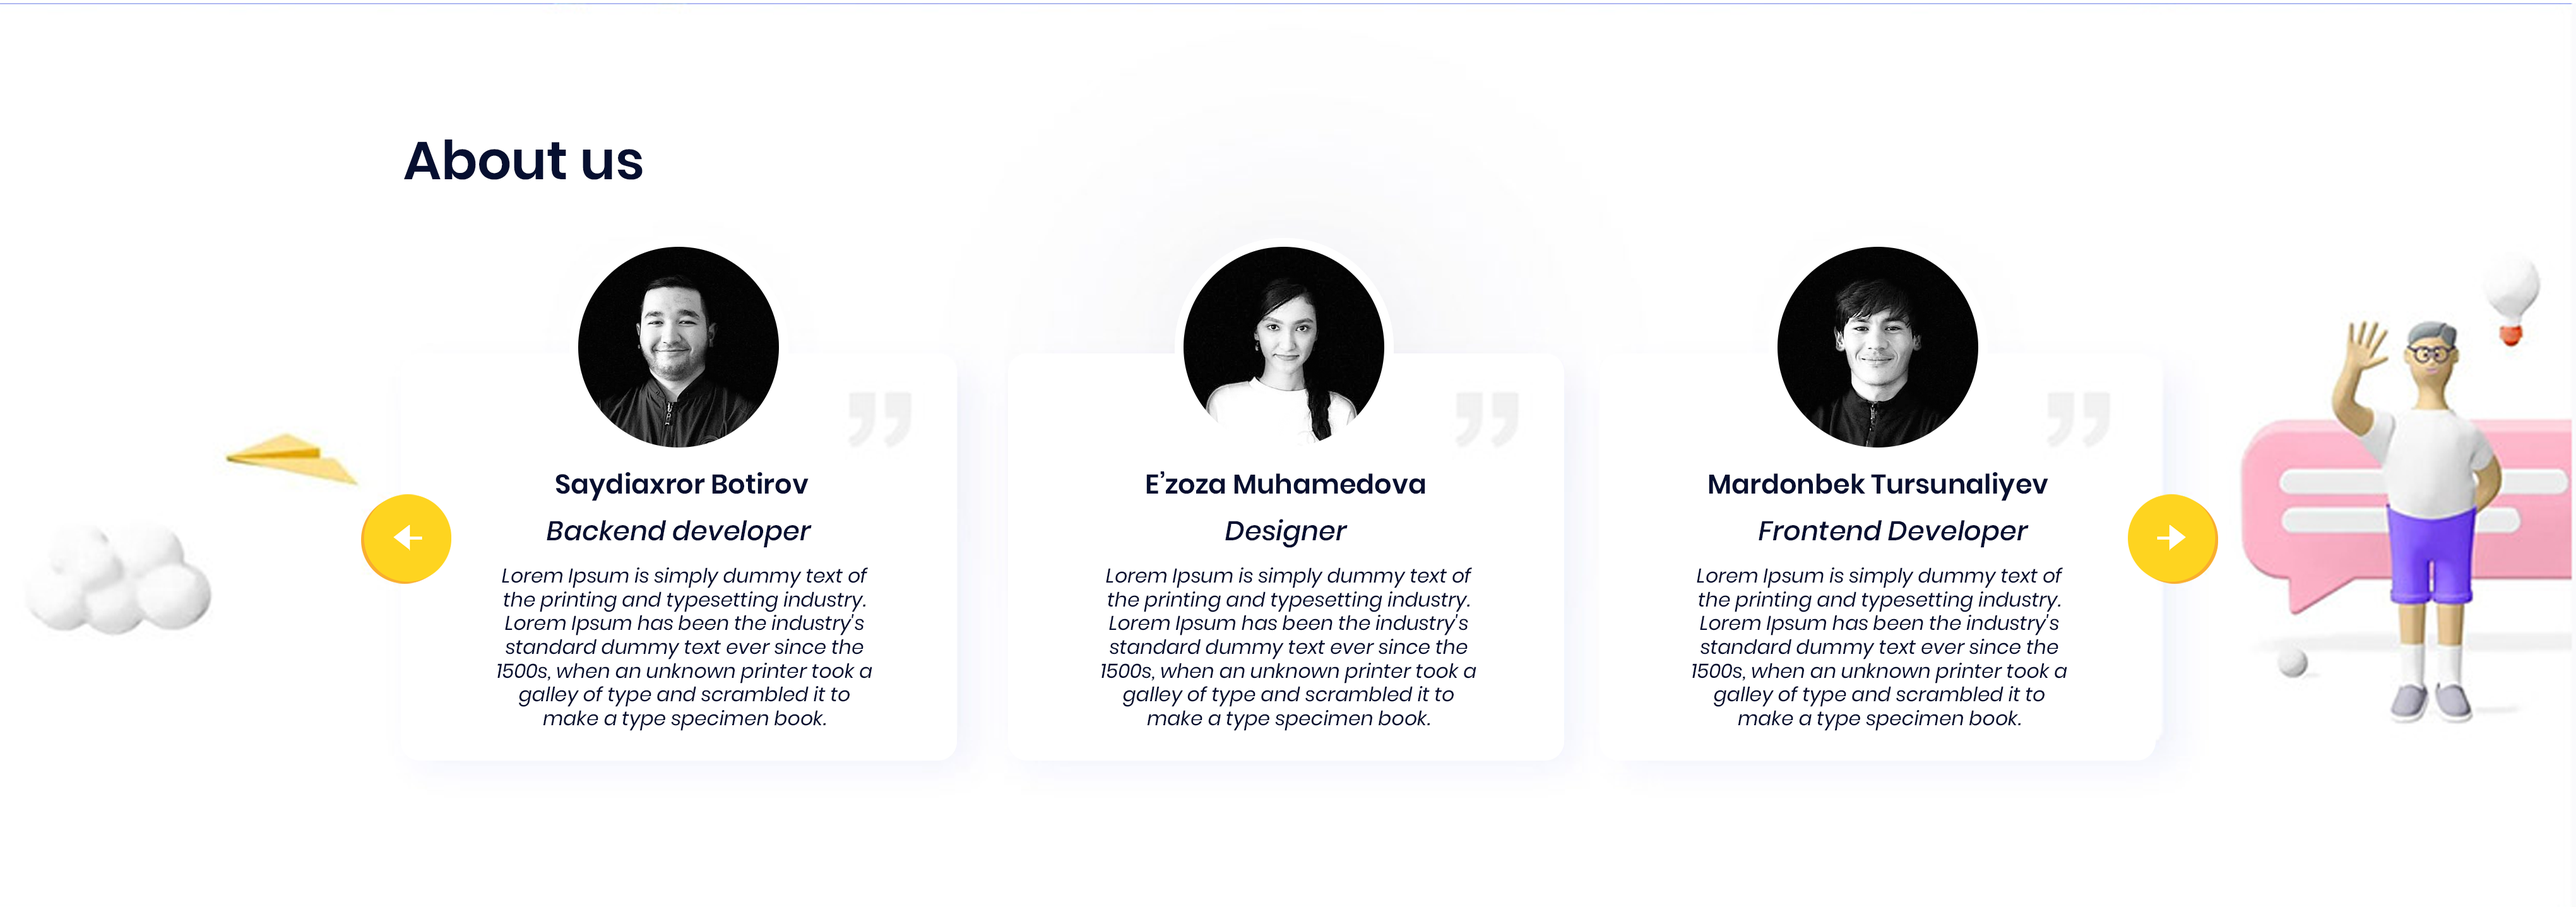
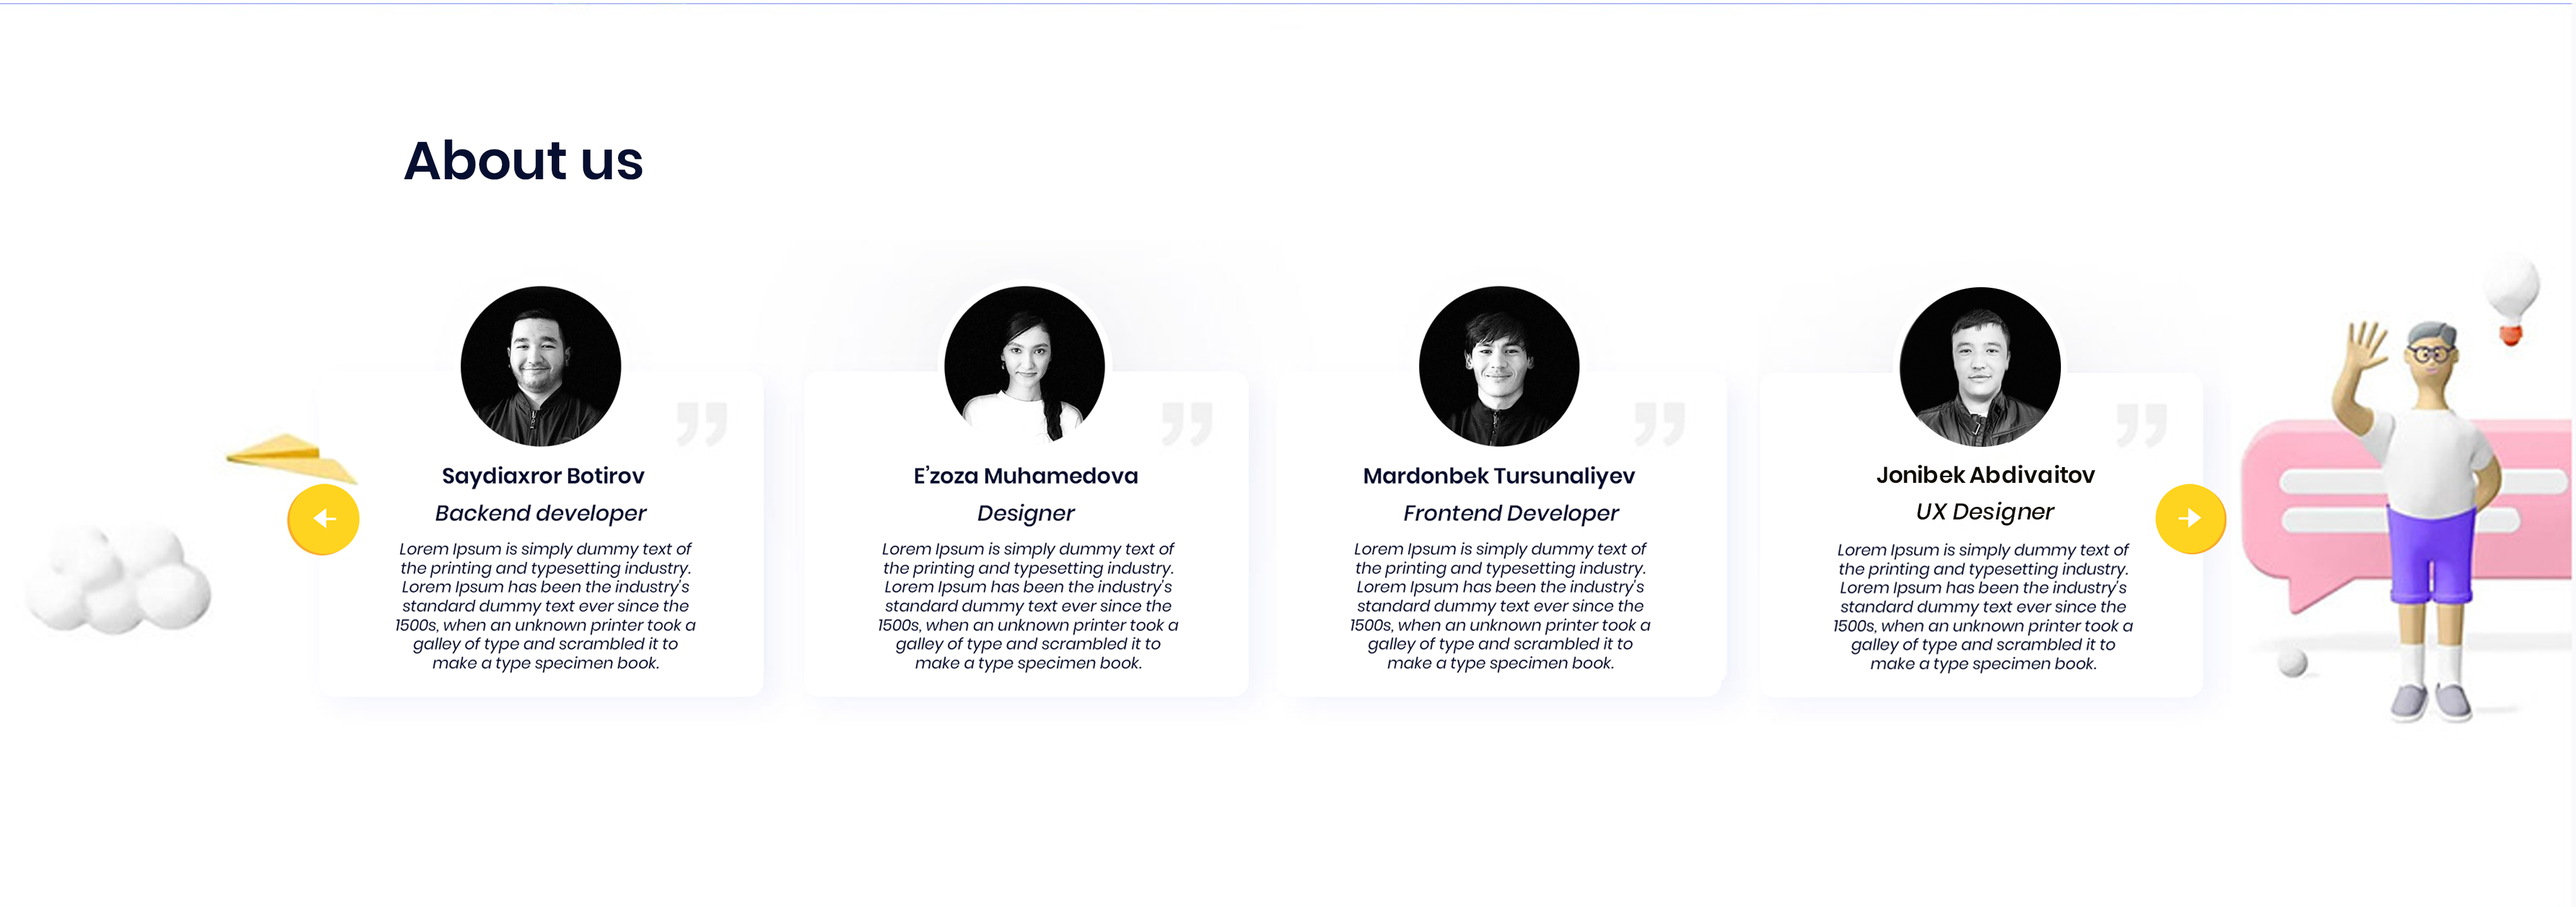
changed some style, added content holder image and title, added Jonibek

Changed region(s): [[0.0934, 0.2756, 0.8714, 0.7961], [0.3423, 0.2756, 0.6224, 0.4899], [0.1556, 0.2756, 0.3112, 0.4899]]

diff --git a/app.js b/app.js
@@ -222,7 +222,7 @@ function resize() {
                 document.querySelector("#cartMenu").style.height = "25vh";
             }
             ReloadCartPanel()
-
+            BuyButtonHandle()
         }
         screenBig = false
     } else {
@@ -237,6 +237,7 @@ function resize() {
                 document.querySelector("#cartMenu").style.height = "calc( 100vh - 60px - 2.5rem - 30px)";
             }
             ReloadCartPanel()
+            BuyButtonHandle()
         }
         screenMin = false
     }
@@ -301,7 +302,7 @@ AddToCartButtonsHandle()
 
 let UserData = undefined
 function CheckAcc() {
-    
+
     if (sessionStorage.getItem('ActiveUser') == null) {
         console.log("please login")
 
@@ -460,30 +461,32 @@ function scrollTo(element) {
         top: element.offsetTop
     });
 }
-
-document.getElementById("BuyButton").onclick = function () {
-    if (CheckAcc()) {
-        window.location.assign(window.location.origin + "/Checkout/index.html")
-    } else {
-        Swal.fire({
-            template: '#my-template'
-        }).then((result) => {
-            if (result.isConfirmed) {
-                window.location.assign(window.location.origin + "/Account/Login.html")
-            }
-            if (result.isDenied) {
-                if (localStorage.getItem("Guest") == null) {
-                    let GUESTDATA = {
-                        FullName: "Guest",
-                        UserName: "Guest",
-                        Email: "Guest"
-                    }
-                    let stringggg = JSON.stringify(GUESTDATA)
-                    localStorage.setItem("Guest", stringggg)
+function BuyButtonHandle() {
+    document.getElementById("BuyButton").onclick = function () {
+        if (CheckAcc()) {
+            window.location.assign(window.location.origin + "/Checkout/index.html")
+        } else {
+            Swal.fire({
+                template: '#my-template'
+            }).then((result) => {
+                if (result.isConfirmed) {
+                    window.location.assign(window.location.origin + "/Account/Login.html")
                 }
-                sessionStorage.setItem("ActiveUser", "Guest")
-                window.location.assign(window.location.origin)
-            }
-        })
+                if (result.isDenied) {
+                    if (localStorage.getItem("Guest") == null) {
+                        let GUESTDATA = {
+                            FullName: "Guest",
+                            UserName: "Guest",
+                            Email: "Guest"
+                        }
+                        let stringggg = JSON.stringify(GUESTDATA)
+                        localStorage.setItem("Guest", stringggg)
+                    }
+                    sessionStorage.setItem("ActiveUser", "Guest")
+                    window.location.assign(window.location.origin)
+                }
+            })
+        }
     }
 }
+BuyButtonHandle()

diff --git a/style.css b/style.css
@@ -8,6 +8,11 @@
   src: url(./fonts/Poppins-Medium.ttf);
 }
 
+@font-face {
+  font-family: ProductsF;
+  src: url(./fonts/Poppins-SemiBold.ttf);
+}
+
 * {
   font-family: "SiteFont";
 }
@@ -161,7 +166,7 @@ main img {
   height: 0;
   overflow: hidden;
   position: sticky;
-  top: 30px;
+  top: 42px;
   width: 100%;
   transition: all 0.25s;
   box-shadow: 5px 1px 10px 0.05px #6caafb59;
@@ -528,6 +533,19 @@ main img {
   float: right;
 }
 
+.contentHolderImage{
+  margin: auto;
+  display: block;
+  width: 120px;
+  margin-bottom: -8px;
+  margin-top: 30px;
+}
+
+.contentProducts{
+  padding: 3rem 3rem 0 calc( 300px - 7rem );
+  font-size: 26px;
+  font-family: ProductsF;
+}
 /* * {
   border: 1px solid black;
 } */
@@ -558,7 +576,7 @@ main img {
   }
   #cartMin {
     position: sticky;
-    top: 60px;
+    top: 88px;
     z-index: 1000;
   }
 

diff --git a/index.html b/index.html
@@ -176,7 +176,9 @@
             <div class="textYear">year</div>
           </div>
         </div>
-
+        <div class="contentProducts">
+          Our Bestsellers
+        </div>
         <div id="exampleSlider">
           <div class="MS-content" id="bestsellers">
             <div class="item"></div>
@@ -192,7 +194,11 @@
           </div>
         </div>
 
+        <img src="./images/op.png" class="contentHolderImage">
         <div class="container-fluid col-12 rounded contentBody">
+          <div class="contentProducts">
+            Our Products
+          </div>
           <div id="items" class="row p-5">
             <span id="NoProducts">No Products Aviable</span>
           </div>
